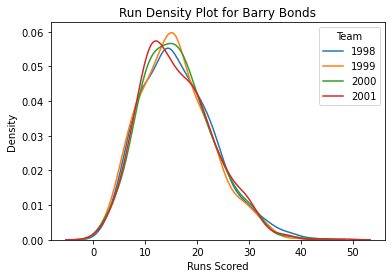
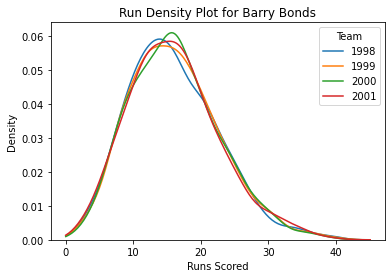
Final touches before submission

diff --git a/code/player_markov_model.py b/code/player_markov_model.py
@@ -169,11 +169,19 @@ for player in players:
 # run_avg = sum(result[1] for result in results['LAD']) / 100
 
 
+# Print subset of transition matrix heatmaps
+for player in players[:5]:
+    plt.figure()
+    sns.heatmap(player_transition_matrices[player], cmap = 'icefire')
+    plt.title(f'Transition Matrix for {player}')
+
+
+plt.figure()
 # Iterate through the players, plot them, and trakc their runs created
 rows = []
 for player in players[:5]:
     # Draw the density plot
-    sns.kdeplot([result[1] for result in results[player]], label = player)
+    sns.kdeplot([result[1] for result in results[player]], label = player, clip = (0, None))
     
     # Calculate the runs created according to the Markov chain and Bill James's metric
     row = player_pbp_data.loc[player_pbp_data['Name'] == player]
@@ -192,6 +200,7 @@ plt.ylabel('Density')
 rc_df = pd.DataFrame(rows).set_index('Name')
 rc_df['Percent Diff'] = (rc_df['Markov RC'] - rc_df['Runs Created']) / rc_df['Runs Created'] * 100
 print(rc_df)
+rc_df.style.to_latex()
 
 
 # Create a runs created DataFrame for all players
@@ -209,4 +218,5 @@ big_rc_df['Percent Diff'] = (big_rc_df['Markov RC'] - big_rc_df['Runs Created'])
 print(big_rc_df)
 
 # Print out summary statistics for the percent difference
-big_rc_df['Percent Diff'].describe()
+percent_df = big_rc_df['Percent Diff']
+pd.DataFrame(percent_df).describe().transpose().iloc[:, 1:].style.to_latex()

diff --git a/code/steroid_markov_model.py b/code/steroid_markov_model.py
@@ -214,6 +214,7 @@ def get_player_distributions(player):
     print(player_df)
     
     
+    # Calculate the transition matrices for each year for the given player
     player_transition_matrices = {}
     for year in player[YEARS]:
         matrix = player_series_to_transition_matrix(player_df.loc[player_df['Year'] == year].squeeze())
@@ -221,6 +222,7 @@ def get_player_distributions(player):
     
     results = {}
     
+    # Simulate a run distribution for each year for a given playeer
     for year in player[YEARS]:
         year_results = []
         for i in range(1000):
@@ -234,7 +236,7 @@ def get_player_distributions(player):
         
     # Plot the run distributions for each year
     for year in player[YEARS]:
-        sns.kdeplot([result[1] for result in results[year]], label = year)
+        sns.kdeplot([result[1] for result in results[year]], label = year, clip = (0, None))
     
     # Plot formatting
     plt.legend(title = 'Team')
@@ -245,6 +247,7 @@ def get_player_distributions(player):
     return results
     
 
+# Plot the results for each player
 for player in steroid_players:
     results = get_player_distributions(player)
     year = list(results.keys())[0]

diff --git a/code/lineup_markov_model.py b/code/lineup_markov_model.py
@@ -236,17 +236,20 @@ team_dict = {'San Francisco Giants': 'SFG', 'Los Angeles Dodgers': 'LAD', 'Chica
 
 player_data['Tm'].unique()
 
+
+# Simulate the distribution of runs for each order for each team
 dists = []
 for team in list(team_dict.items()):
     print(team)
     team_player_data = player_data[player_data['Tm'] == team[TLA]].sort_values('BA')
     dist = simulate_batting_orders(team, team_player_data)
-    dist = dist.loc[dist['mean'] == max(dist['mean'])]
     print(dist)
+    dist = dist.loc[dist['mean'] == max(dist['mean'])]
     dist['type'] = dist.index[0]
     dist.index = [team[TLA]]
     dists.append(dist.squeeze())
     
+# Create a table with the best batting order foe each team
 dist_df = pd.DataFrame(dists)
 dist_df = dist_df.sort_values('mean', ascending = False)
 str(dist_df.style.to_latex()).replace('\\\\\n', '\\ \hline ')

diff --git a/code/team_markov_model.py b/code/team_markov_model.py
@@ -150,6 +150,7 @@ for ind in team_pbp_data.index:
 results = {}
 teams = list(team_dict.values())
 
+# Simulate game for each team
 for team in teams:
     team_results = []
     for i in range(1000):
